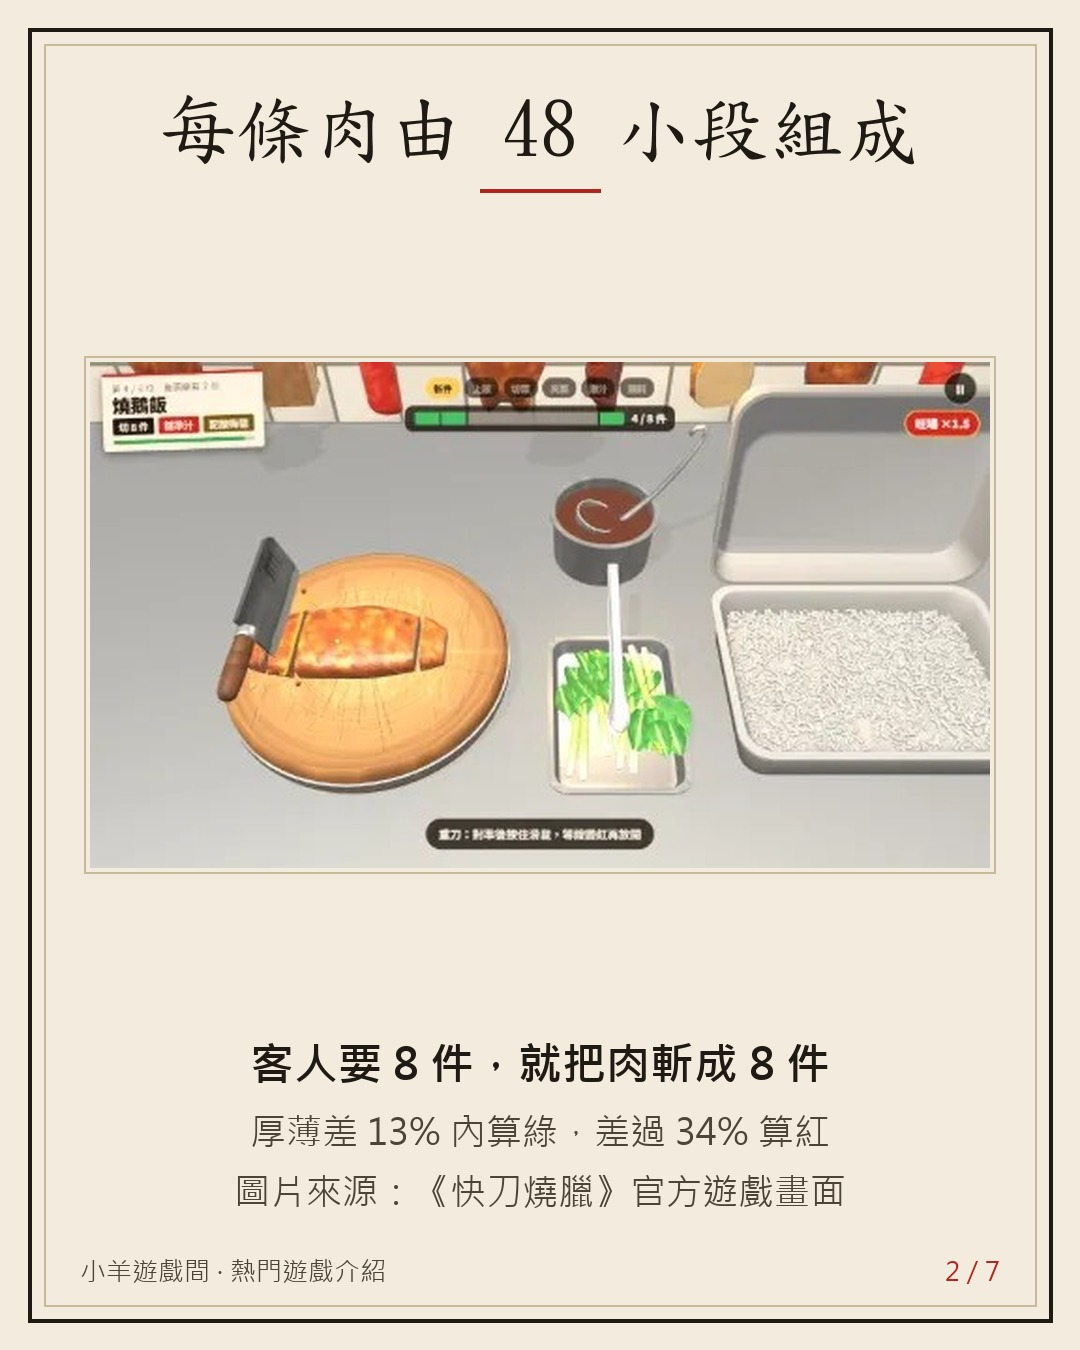
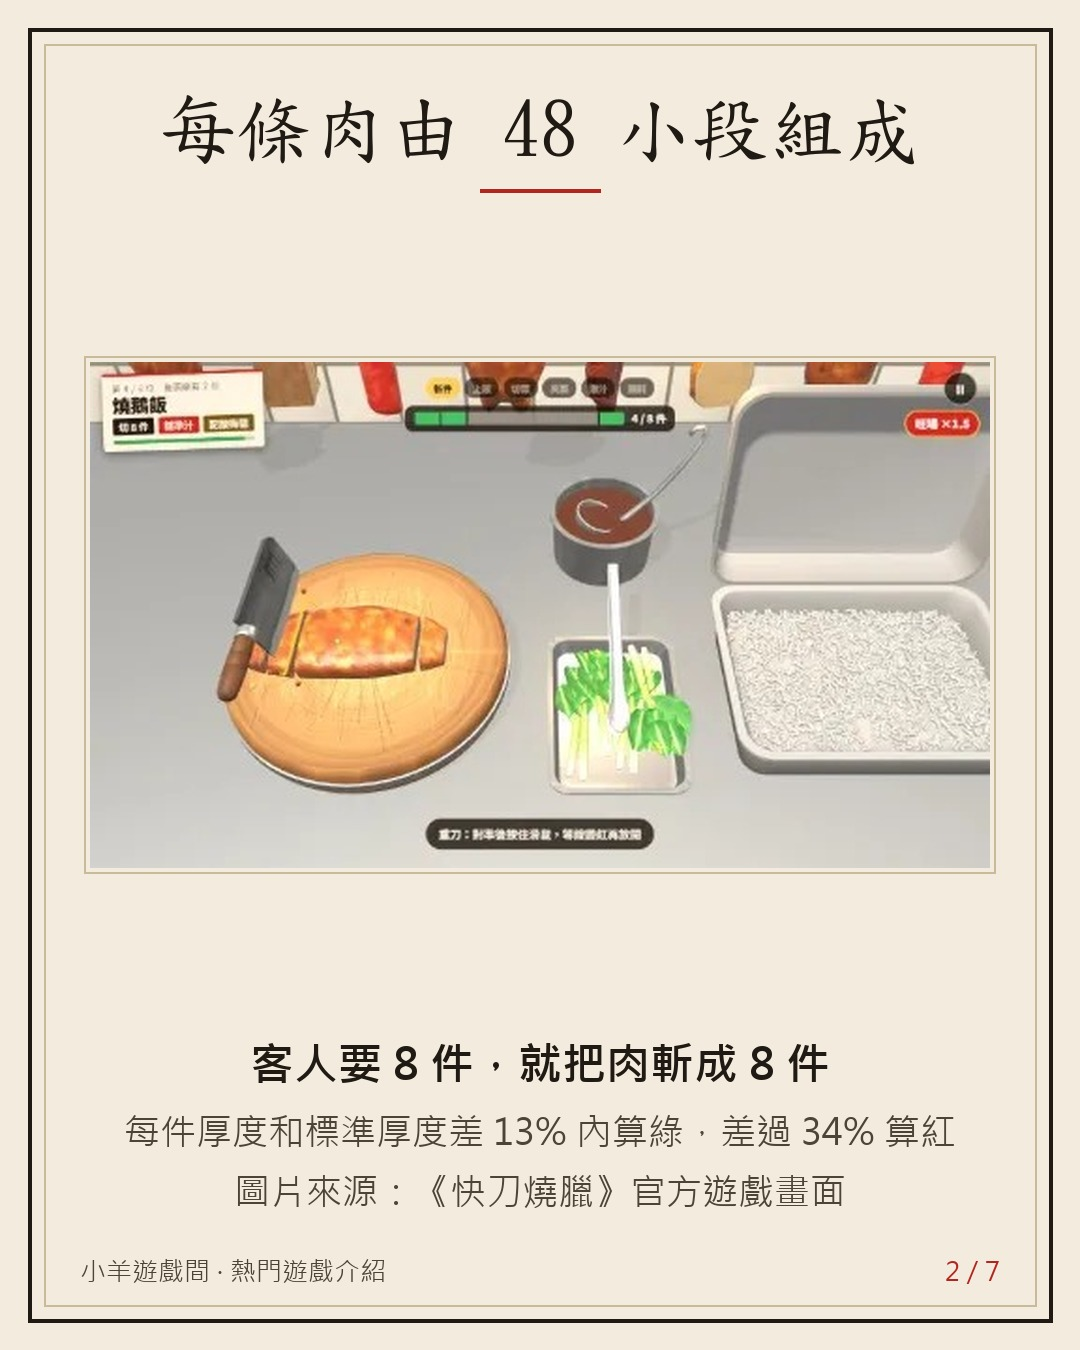
vault backup: 2026-11-24 17:42:27

Changed region(s): [[0.1222, 0.8089, 0.5194, 0.8711], [0.55, 0.8089, 0.7944, 0.8711], [0.825, 0.8089, 0.8861, 0.8711]]

diff --git a/Projects/auto promotion/posts/90.md b/Projects/auto promotion/posts/90.md
@@ -3,9 +3,9 @@ id: 90
 type: popular
 game: 快刀燒臘（Chop Chop Siu Mei，play.cybernatsume.org/g/chop_chop_siu_mei/，怪奇口袋小遊戲，作者「夏目」）
 topic: "快刀燒臘：港式燒臘檔斬叉燒燒鵝、鋪飯夾菜淋汁的 3D 網頁遊戲（4388 最熱門榜，約 4.0k 次遊玩）；遊戲公開程式的規則：每條肉 48 段、厚薄差 13% 內算綠、滿分 100＝刀工 40＋擺盤 20＋醬汁 25＋速度 15、旺場 ×1.5、6 位客人上限 800、約 700 種單"
-status: 待發
+status: 退回
 created: 2026-11-25 10:00
-score: 0
+score: 7.7
 ---
 # 【介紹】網頁遊戲《快刀燒臘》：叉燒燒鵝一刀斬，六盒理論上限 800 分
 
@@ -16,20 +16,20 @@ score: 0
 
 【介紹】《快刀燒臘》
 話說江湖上有一門港式奇功：開檔斬燒臘。叉燒、燒肉、油雞髀、燒鵝、紅腸，客人要幾件就斬幾件，厚薄要一致，還要鋪飯、夾菜、淋汁。
-網頁點開即玩，4388 小遊戲「最熱門」榜上有名。作者「夏目」自介說，喜歡用 AI 做奇怪的工具和小遊戲（沒指明是哪一款）。
+網頁點開即玩，4388 小遊戲「最熱門」榜上有名。作者「夏目」自介說喜歡用 AI 做小遊戲（沒指明哪一款）。
 圖片來源：《快刀燒臘》官方
 ![[90/01.jpg]]
 ### 2
-且說在下翻了遊戲的公開程式（這回讀的是規則，不是手玩成績），一檔六位客人是這樣的：
-第 1、2 位只點單拼，好打發。第 3 位必雙拼，兩種肉各半，蘸料也要記兩種。第 2 位起有人要「走青」，放了菜，他回你：「我說了走青，怎麼還有菜？」
-每條肉由 48 小段組成，客人要 8 件，就得斬成 8 件，厚薄差 13% 內算綠，差過 34% 算紅。
+且說在下只讀過祕笈，沒上過檔，不敢吹牛（讀的是遊戲公開程式的規則，不是手玩成績）：
+一檔六位客人，第 1、2 位固定單拼，第 3 位必雙拼，兩種肉各半。第 2 位起，每位有 22% 機率要「走青」，放了菜，他回你：「我說了走青，怎麼還有菜？」
+每條肉由 48 小段組成，客人要 8 件，就得斬成 8 件，每件厚度和標準厚度差 13% 內算綠，差過 34% 算紅。燒鵝、油雞髀帶骨皮厚，得「重刀」：按住蓄力，等線變紅再放開。
 蘸料給錯，只扣 4 分，罵詞卻是專屬訂製：「我要的是酸梅醬，你給我芥末？」江湖險惡 XD
 ![[90/04.jpg]]
 ### 3
 翻開祕笈：滿分 100 分成刀工 40、擺盤 20、醬汁 25、速度 15。超過預計時間再過 9 秒，速度那 15 分才扣光。刀工佔 40，速度只佔 15，慢工出細活，切準比搶快值錢。
 連兩盒 4 星以上算「旺場」，下一盒 ×1.5，所以六盒的理論上限不是 600，是 800。最低評價「今天先收檔吧」，最高「燒臘之神」。
 此功手機點開即可練，不用註冊。
-考考閣下：第 3 位必雙拼，叉燒配燒鵝各半條，閣下先斬哪一條？留言說說理由👇
+考考閣下：閣下最怕哪一門刀工：要蓄力重刀的燒鵝、油雞髀，還是要斬 16 件的紅腸？留言說說理由👇
 下回在下再找一門奇功，想看請追蹤。
 ![[90/05.jpg]]
 ### 連結
@@ -44,12 +44,13 @@ score: 0
 
 在下翻了遊戲的公開程式（規則，不是手玩成績）：
 一檔 6 位客人，第 3 位必雙拼，兩種肉各半
-每條肉由 48 小段組成，厚薄差 13% 內算綠，差過 34% 算紅
+每條肉由 48 小段組成，每件厚度和標準厚度差 13% 內算綠，差過 34% 算紅
+燒鵝、油雞髀帶骨皮厚，要「重刀」按住蓄力
 蘸料給錯只扣 4 分，罵詞卻是專屬訂製
 刀工 40、擺盤 20、醬汁 25、速度 15：慢工出細活
 連兩盒 4 星以上旺場 ×1.5，六盒上限 800
 
-網頁點開即玩，不用註冊。考考閣下：叉燒、燒肉、油雞髀、燒鵝、紅腸，第 3 位必雙拼，叉燒配燒鵝各半條，先斬哪一條？留言說說理由，下回再找一門奇功，想看請追蹤。
+網頁點開即玩，不用註冊。考考閣下：叉燒、燒肉、油雞髀、燒鵝、紅腸，最怕哪一門刀工：要蓄力重刀的燒鵝、油雞髀，還是要斬 16 件的紅腸？留言說說理由，下回再找一門奇功，想看請追蹤。
 圖：遊戲官方圖與畫面
 
 連結在主頁（小羊遊戲間）
@@ -64,10 +65,11 @@ score: 0
 【介紹】《快刀燒臘》
 話說江湖上有一門港式奇功：開檔斬燒臘。你是街邊燒臘檔老闆，叉燒、燒肉、油雞髀、燒鵝、紅腸，客人要幾件就斬幾件，厚薄要一致，再鋪飯、夾菜、淋汁、蘸料，趕在客人不耐煩前出餐。遊戲在「怪奇口袋小遊戲」站上，作者「夏目」自介說，喜歡用 AI 做奇怪的工具和小遊戲（沒指明是哪一款）；4388 小遊戲「最熱門」榜上有名。
 
-且說在下翻了遊戲的公開程式（規則，不是手玩成績），一檔六位客人是這樣的：
-🔪 第 1、2 位只點單拼，好打發；第 3 位必雙拼，兩種肉各半，蘸料也要記兩種。
-🥬 第 2 位起有人要「走青」。放了菜，他回你：「我說了走青，怎麼還有菜？」
-🔪 每條肉由 48 小段組成，客人要 8 件，就得斬成 8 件。厚薄差 13% 內算綠，差過 34% 算紅。
+且說在下只讀過祕笈，沒上過檔，不敢吹牛（讀的是遊戲公開程式的規則，不是手玩成績）：
+🔪 一檔六位客人，第 1、2 位固定單拼；第 3 位必雙拼，兩種肉各半。
+🥬 第 2 位起，每位有 22% 機率要「走青」。放了菜，他回你：「我說了走青，怎麼還有菜？」
+🔪 每條肉由 48 小段組成，客人要 8 件，就得斬成 8 件。每件厚度和標準厚度差 13% 內算綠，差過 34% 算紅。
+🪓 燒鵝、油雞髀帶骨皮厚，得「重刀」：按住蓄力，等線變紅再放開。
 🥢 蘸料給錯，只扣 4 分，罵詞卻是專屬訂製：「我要的是酸梅醬，你給我芥末？」江湖險惡 XD
 
 翻開祕笈：
@@ -76,7 +78,7 @@ score: 0
 📜 連兩盒 4 星以上算「旺場」，下一盒 ×1.5，所以六盒的理論上限不是 600，是 800。
 📜 一檔結束的評價共 5 級，最低「今天先收檔吧」，最高「燒臘之神」。
 
-網頁點開即玩，不用註冊。考考閣下：叉燒、燒肉、油雞髀、燒鵝、紅腸，第 3 位必雙拼，叉燒配燒鵝各半條，閣下先斬哪一條？留言說說理由。下回在下再找一門奇功，想看請追蹤。
+網頁點開即玩，不用註冊。考考閣下：叉燒、燒肉、油雞髀、燒鵝、紅腸，閣下最怕哪一門刀工：要蓄力重刀的燒鵝、油雞髀，還是要斬 16 件的紅腸？留言說說理由。下回在下再找一門奇功，想看請追蹤。
 
 遊戲：https://play.cybernatsume.org/g/chop_chop_siu_mei/
 👉 在下也做了幾門點了就玩的網頁小遊戲（《生在中國》《蓋牌投票箱》等，不用註冊），都在小羊遊戲間：https://games.csiesheep.com/
@@ -104,5 +106,9 @@ score: 0
 ## 打磨紀錄
 | 回合 | 1 | 2 | 3 | 4 | 5 | 6 | 7 | 8 | 9 | 10 | 平均 | 主要修改 |
 |---|---|---|---|---|---|---|---|---|---|---|---|---|
+| 1 | 6 | 8 | 4 | 6 | 6 | 7 | 7 | 6 | 7 | 8 | 6.5 | 獨立 judge（sonnet）：未達標。改：對聯與開頭、加「六盒上限 800」、蘸料改「只扣 4 分」、補「慢工出細活」 |
+| 2 | 7 | 9 | 6 | 7 | 7 | 7 | 7 | 8 | 6 | 9 | 7.3 | 未達標；事實錯：8 件不是 8 刀、「第一句罵的永遠是蘸料」不實。改：改「斬成 8 件」、「罵詞專屬訂製」、第 3 位必雙拼、對聯改「蘸料一錯客開罵」、補生在中國／蓋牌投票箱、問題改辯題 |
+| 3 | 7 | 8 | 6 | 7 | 7 | 5 | 6 | 7 | 7 | 9 | 6.9 | 未達標；事實錯：雙拼蘸料不是兩種、問題前提（先斬哪條）遊戲不能選。改：刪蘸料兩種、走青 22%、加重刀、問題改「最怕哪一門刀工」、自嘲「只讀過祕笈沒上過檔」 |
+| 4 | 8 | 9 | 7 | 7 | 8 | 8 | 7 | 7 | 7 | 9 | 7.7 | 未達標（max 4 回合，退回）。剩餘：「標準差」用詞（已改成「標準厚度差」）；Threads 第 2 則一則多點；卡 2–4 截圖相近；缺手玩故事（沒有手玩成績）；「江湖險惡 XD」取自範例；AI 自介旁白可刪 |
 
 ## 發文紀錄

diff --git a/Projects/auto promotion/posts/topics.md b/Projects/auto promotion/posts/topics.md
@@ -74,3 +74,4 @@
 - 2026-11-25 producer：已寫 #89《姓名戰鬥陀螺》（lpm1.live；NOWnews 2026-09-30、4Gamers；《文字遊戲》製作人張文韋用 Claude 做，薪鹽 Threads 貼文一天破 19 萬瀏覽）。實測對戰在瀏覽器跑太慢，沒有勝負結果，文中已誠實寫明。
 - 2026-11-25 08:50 producer：再搜「網頁小遊戲 爆紅 Threads 11月」，只得已寫過的（鍋氣炒飯、炸地瓜球、擠雪糕等），仍無新題。熱門庫存 3。
 - 2026-11-25 09:10 producer：第三輪仍無新題。JUKSY 10/22 十款、NOWnews 11/4、台北 GTA、機甲、HK 星島整理全已寫（只剩《擠冰淇淋 softserve.nog.cc》#22 已涵蓋、《堆疊雪糕球》《唧牙膏》《COO》來源不足）。下次須用瀏覽器開 aileelife.com/threads-game/ 或 Threads 本身找 11 月下旬新題；熱門 3／4 暫缺一篇。
+- 2026-11-25 producer：寫了 #90《快刀燒臘》（play.cybernatsume.org/g/chop_chop_siu_mei/，怪奇口袋小遊戲、作者「夏目」自介喜歡用 AI 做小遊戲；4388 最熱門榜 4.0k 次、78%／40 票），4 回合 judge 7.7，狀態「退回」（沒有手玩成績、全靠讀公開程式，故事項 7、卡片 2–4 截圖相近）。找題法：4388.fun 首頁「最熱門」榜有未寫過的（快刀燒臘 19781），作者站 play.cybernatsume.org 有 44 款（官方封面 /cover/<id>.webp 與 /shot/<id>/*.webp 可抓），其中料理類：水餃職人、鍋貼職人、滷肉飯專家、爆米花大師、寶島烤肉王、亂加泡麵研究所、燒肉中模擬器、台北機車瀑布、麻雀幫都沒寫過。下次若要避免「全靠讀程式」：先用 headless Chrome 真的玩一檔（window.__siu 暴露 world、start、state），拿實測分數。另有《港式台牌》（hk-taiwan-mahjong.pages.dev，4388 /g/3850，近博弈題材未選）。

diff --git a/Projects/auto promotion/2026-11-25.md b/Projects/auto promotion/2026-11-25.md
@@ -78,3 +78,4 @@
 | 09:11 | hub-daily-challenge | 完成 | 已發 Facebook 圖文、YouTube Short、Facebook Reel；Threads 未發（安全規則）；帳號：Facebook 已切回個人、分頁已關、鎖已放 |  |
 | 09:29 | promo-producer | 開始 | 存貨 卡2 Reel3 鬼唱詩 待發?／待審?／要修改1；審稿修改 |  |
 | 09:29 | promo-producer | 進度 | 第 58 首 altar_apple：owner 11/20 留言『放棄，看不懂』，我 11/20 已反問（重寫 or 選段改），尚無回覆，維持要修改；改寫一則熱門貼文（熱門 3<4） |  |
+| 09:39 | promo-producer | 完成 | 熱門貼文 #90《快刀燒臘》4 輪打磨平均 7.7 未達 8.0，標 退回（附筆記，下次先實玩再寫）；熱門待發仍 3；第 58 首仍等 owner 回覆；卡2/Reel3/鬼唱詩足量 |  |
